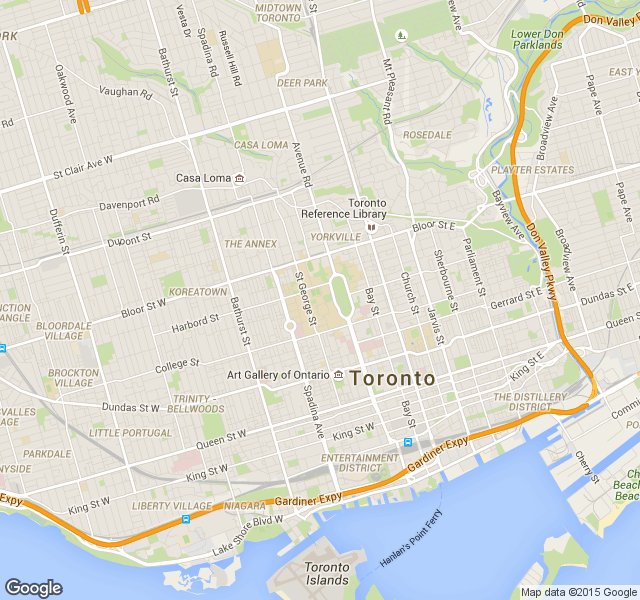
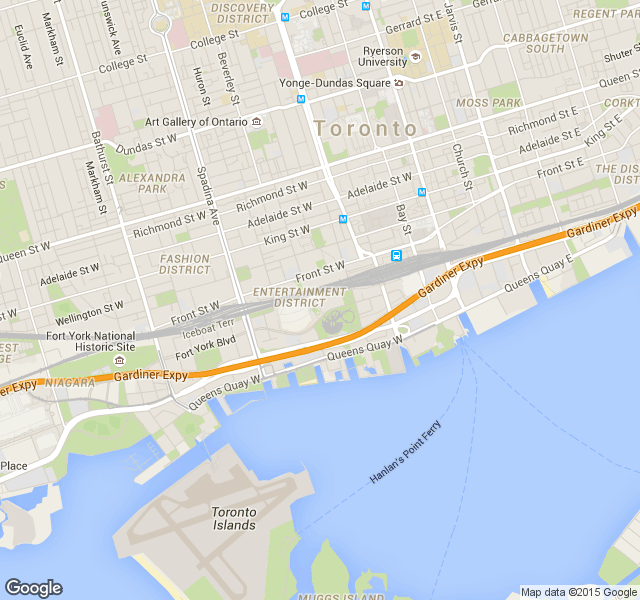
fixed layout management

diff --git a/PHASTui/ClientUI.py b/PHASTui/ClientUI.py
@@ -9,19 +9,30 @@ class Gui(wx.Frame):
 
     def __init__(self, parent, title):
         super(Gui, self).__init__(parent, title=title,
-            size=(800, 600))
+            size=(1000, 750))
+        self.server_host = "142.150.208.139"
+        self.server_port = 6633
         panel = wx.Panel(self)
-        self.url = "https://maps.googleapis.com/maps/api/staticmap?center=CN+Tower,Toronto,ON&zoom=13&" \
+        sizer = wx.BoxSizer(wx.VERTICAL)
+
+        self.url = "https://maps.googleapis.com/maps/api/staticmap?center=CN+Tower,Toronto,ON&zoom=14&" \
                    "size=800x600&maptype=roadmap&key=AIzaSyA7LGD3TmN87_-Lr8sofhjaylZK1q87ra8"
         self.img_file = "googlemap.png"
+
+        input_box = wx.BoxSizer(wx.HORIZONTAL)
         self.location_box = wx.TextCtrl(panel, size=(300, 20))
         self.comp_button = wx.Button(panel, label="Compute", size=(100, 50))
         self.comp_button.Bind(wx.EVT_BUTTON, self.compute_route)
-        self.img = wx.StaticBitmap(self, -1, wx.Bitmap(self.img_file, wx.BITMAP_TYPE_ANY))
-        sizer = wx.BoxSizer(wx.VERTICAL)
-        sizer.Add(self.location_box)
-        sizer.Add(self.comp_button)
-        sizer.Add(self.img)
+        input_box.Add(self.location_box, flag=wx.LEFT | wx.TOP | wx.RIGHT, border=10)
+        input_box.Add(self.comp_button, flag=wx.LEFT | wx.TOP, border=10)
+
+        img_box = wx.BoxSizer(wx.HORIZONTAL)
+        self.img = wx.StaticBitmap(panel, -1, wx.Bitmap(self.img_file, wx.BITMAP_TYPE_ANY))
+        img_box.Add(self.img, flag=wx.LEFT | wx.BOTTOM | wx.RIGHT | wx.EXPAND, border=10)
+
+        sizer.Add(input_box, flag=wx.LEFT | wx.RIGHT, border=10)
+        sizer.Add((-1, 25))
+        sizer.Add(img_box, 1, wx.EXPAND | wx.LEFT | wx.BOTTOM, 20)
 
         panel.SetSizer(sizer)
 
@@ -36,7 +47,7 @@ class Gui(wx.Frame):
     def display_map(self):
         if os.path.isfile(self.img_file):
             urllib.urlretrieve(self.url, self.img_file)
-            self.img = wx.StaticBitmap(self, -1, wx.Bitmap(self.img_file, wx.BITMAP_TYPE_ANY))
+            self.img.SetBitmap(wx.Bitmap(self.img_file, wx.BITMAP_TYPE_ANY))
         self.img.Refresh()
 
 if __name__ == '__main__':
